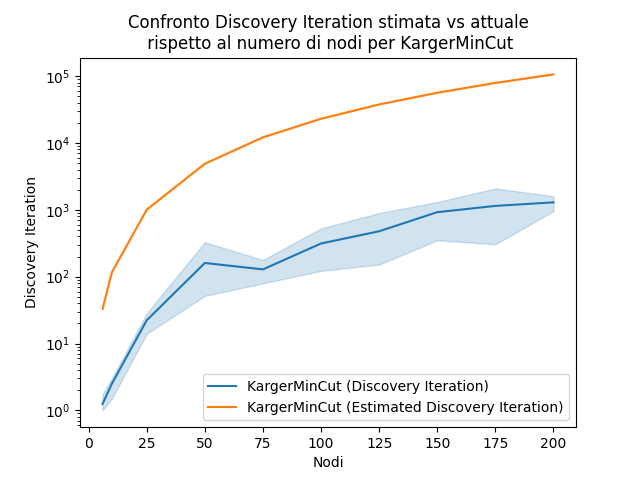
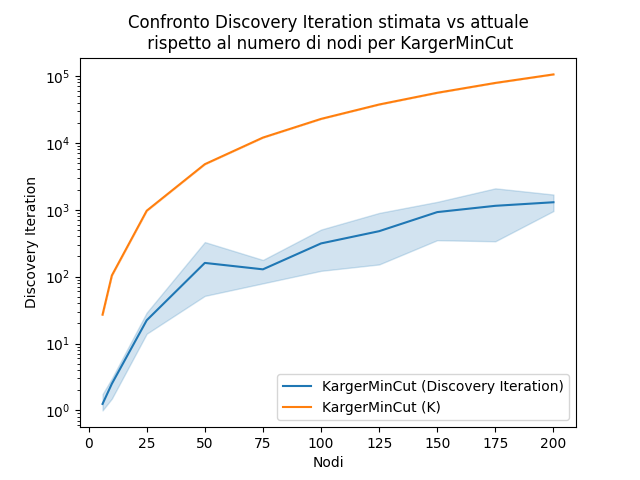
Fixed karger discovery vs estimated iteration chart legend

diff --git a/benchmark/analysis.py b/benchmark/analysis.py
@@ -611,21 +611,9 @@ def karger_def_vs_tout_relative_error(dfs):
 
 def karger_discovery_iter_vs_estimated(dfs):
     karger_df = dfs[KARGER].copy()
-    
-    # Add estimated_discovery_iteration column (see documentation report, Question 2)
-    # with the formula
-    #     (1)    k = 1 * (n^2 / 2) * ln(n)
 
-    n = karger_df['nodes'].astype(np.double)  # nodes number as double
-    k = np.square(n) / 2 * np.log(n)          # applying formula (1)
-    k = np.ceil(k)                            # round to ceil
-    k = k.astype(np.double)                   # result to double
-
-    karger_df['estimated_discovery_iteration'] = k
-
-    # plot the result
     g = sns.lineplot(karger_df['nodes'], karger_df['discovery_iteration'], label=f'{KARGER} (Discovery Iteration)')
-    g = sns.lineplot(karger_df['nodes'], karger_df['estimated_discovery_iteration'], label=f'{KARGER} (Estimated Discovery Iteration)')
+    g = sns.lineplot(karger_df['nodes'], karger_df['k'].astype(np.double), label=f'{KARGER} (K)')
     g.set(xlabel='Nodi', ylabel='Discovery Iteration')
     g.set_yscale('log')
 
